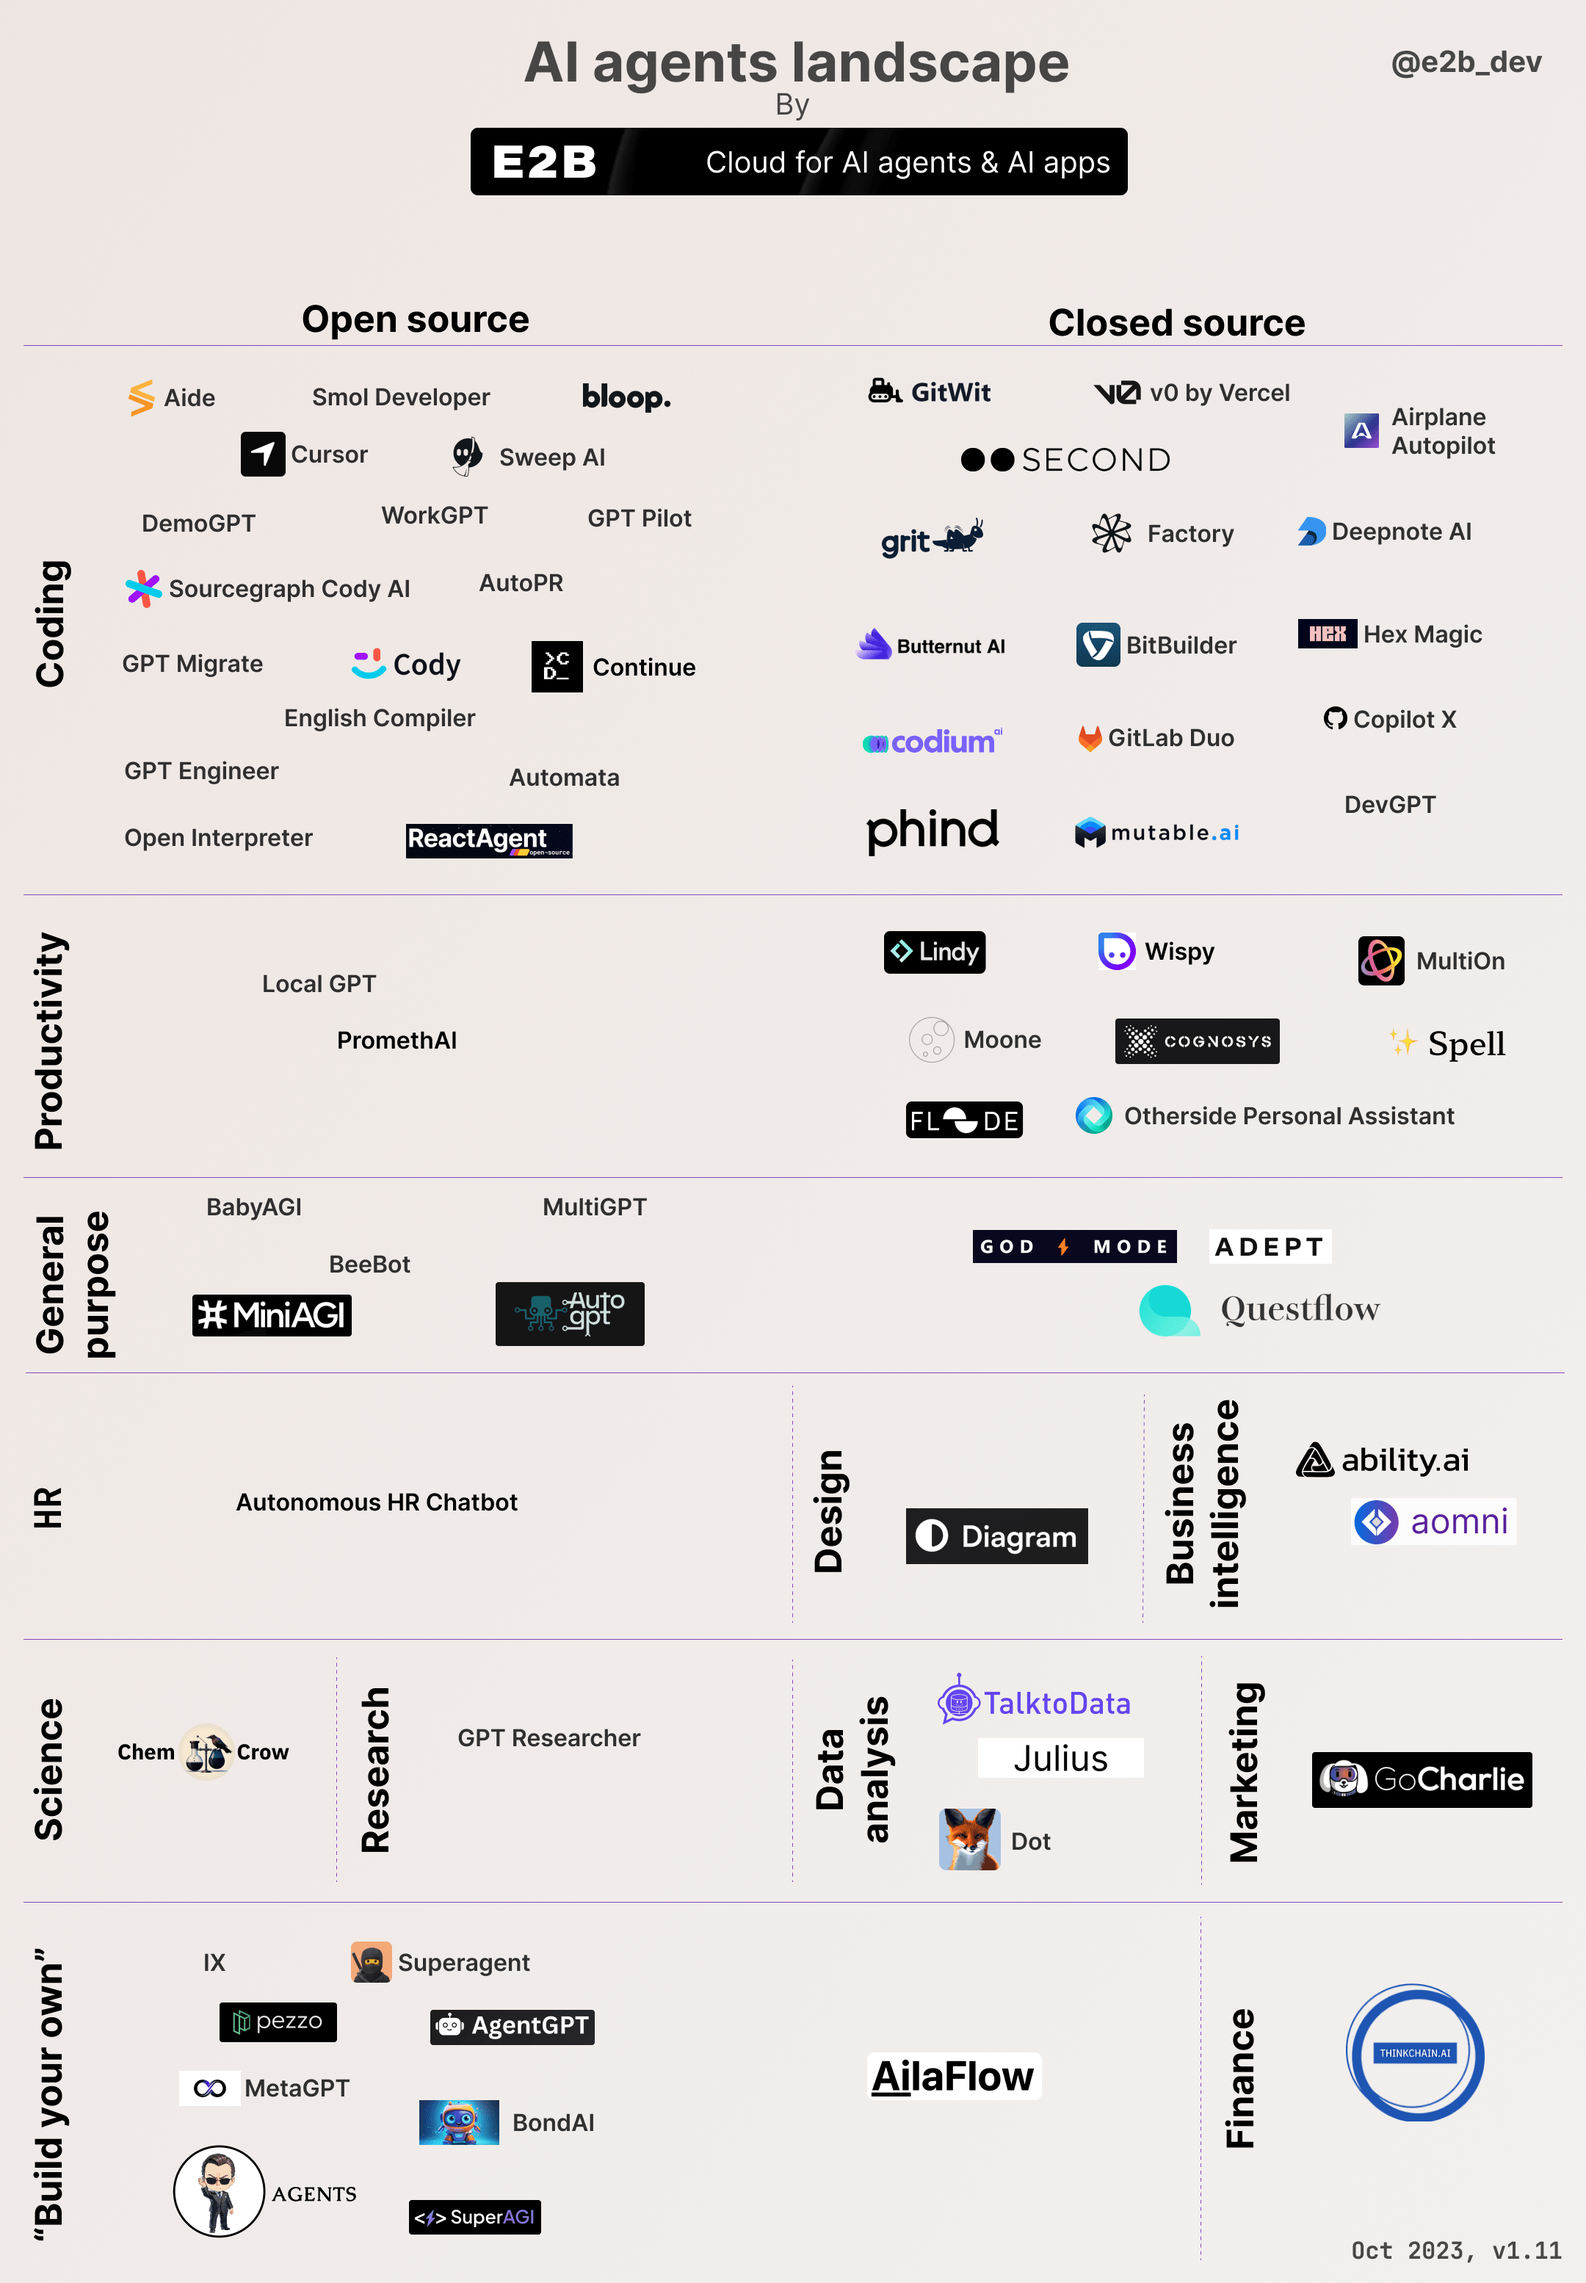
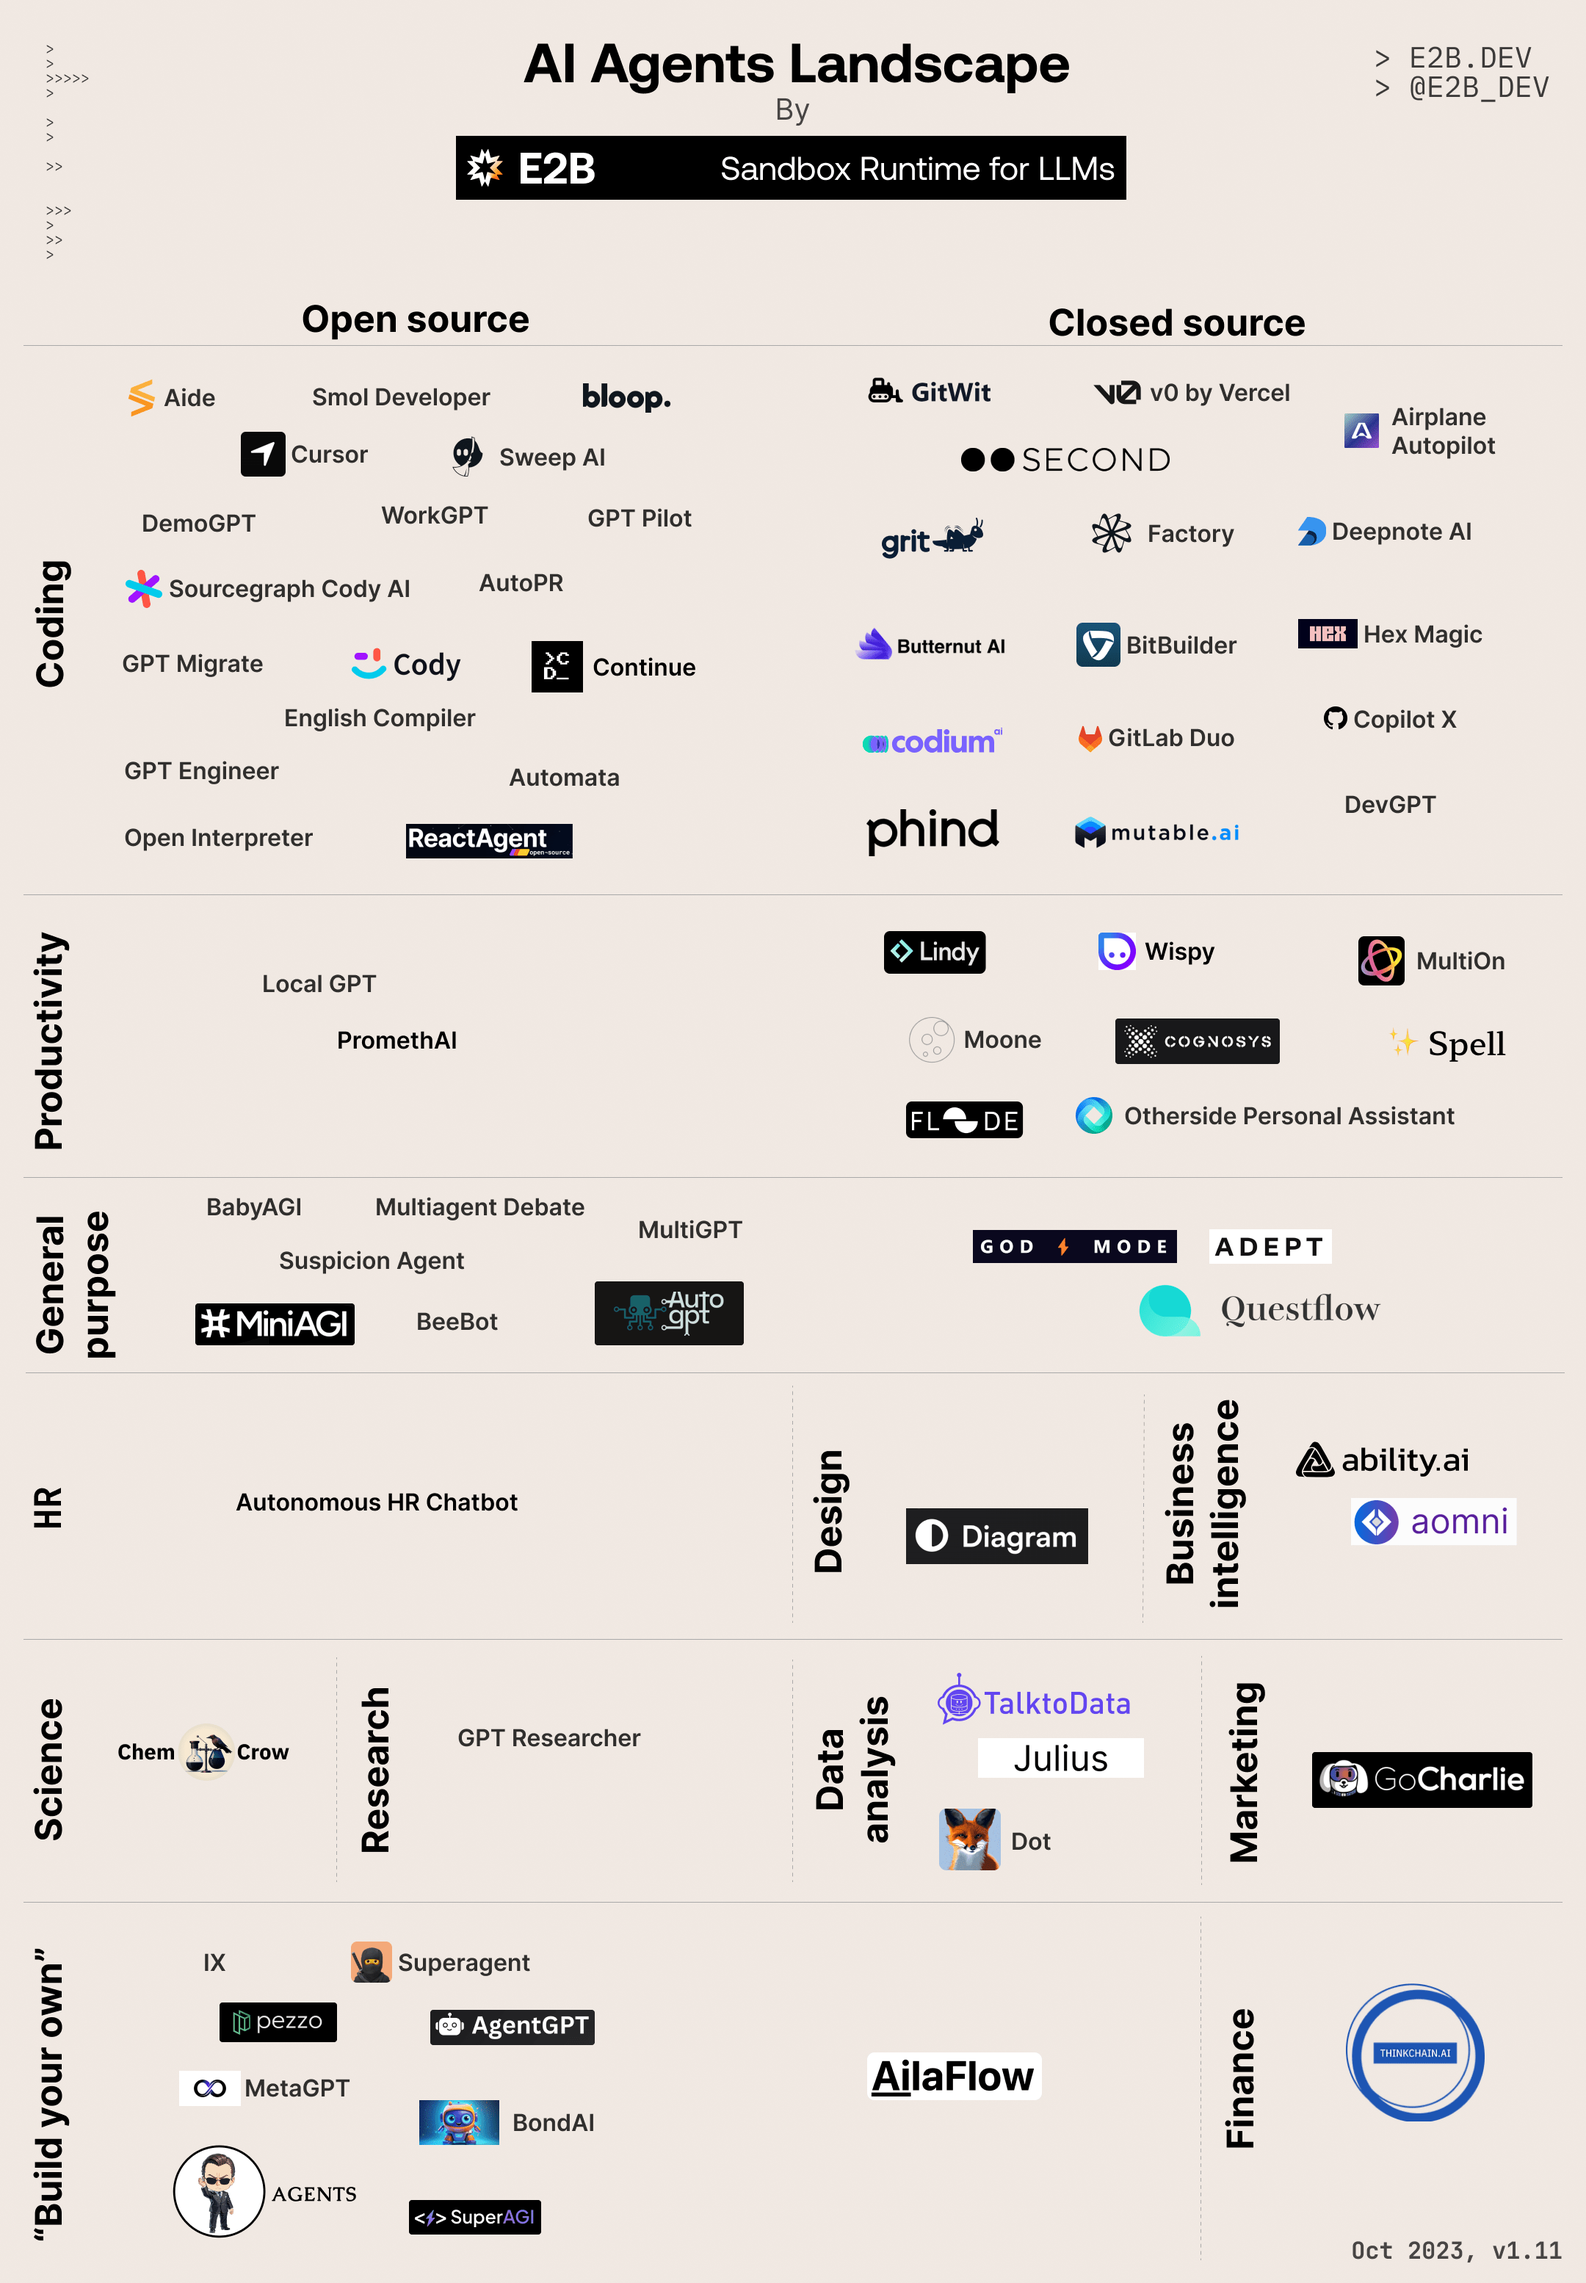
Update visual

diff --git a/README.md b/README.md
@@ -1,10 +1,6 @@
 <!--
 TBD:
 Add to visual:
-- MultiAgent Debate (also add to SDKs)
-- IX (also add to SDKs)
-- Agents (also add to SDKs)
-- Local GPT
 - Suspicion Agent
 - Wispy
 	-->
